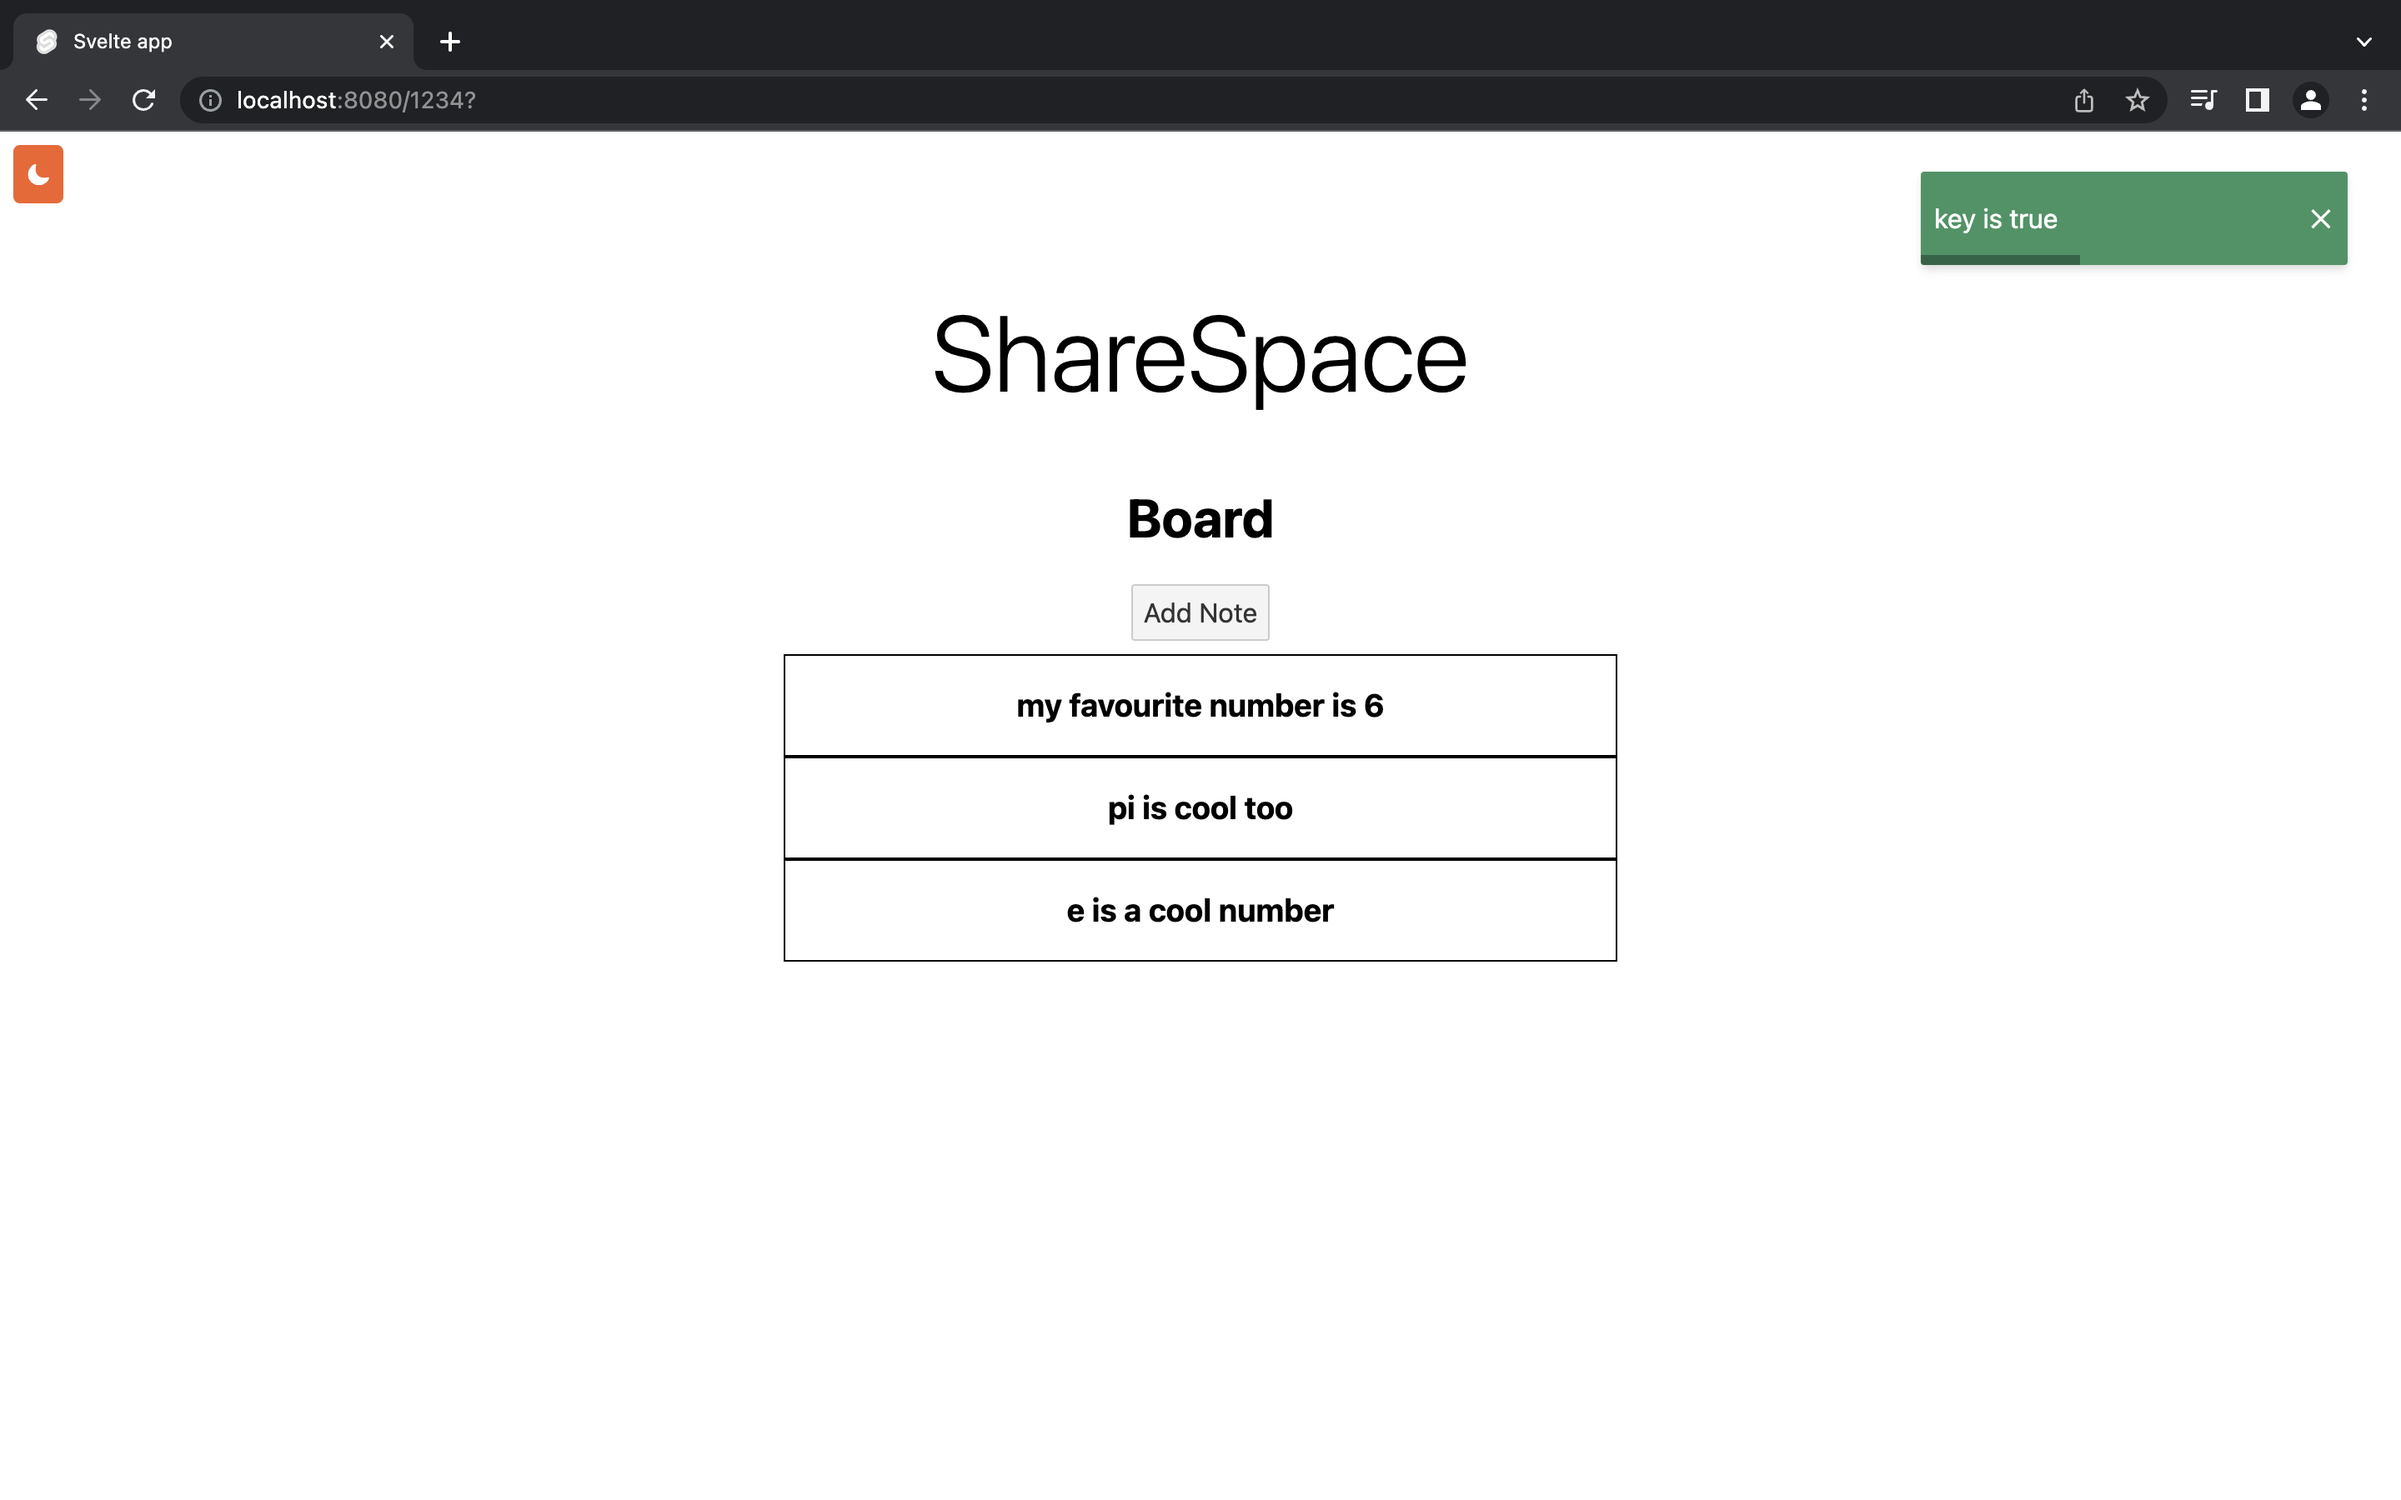
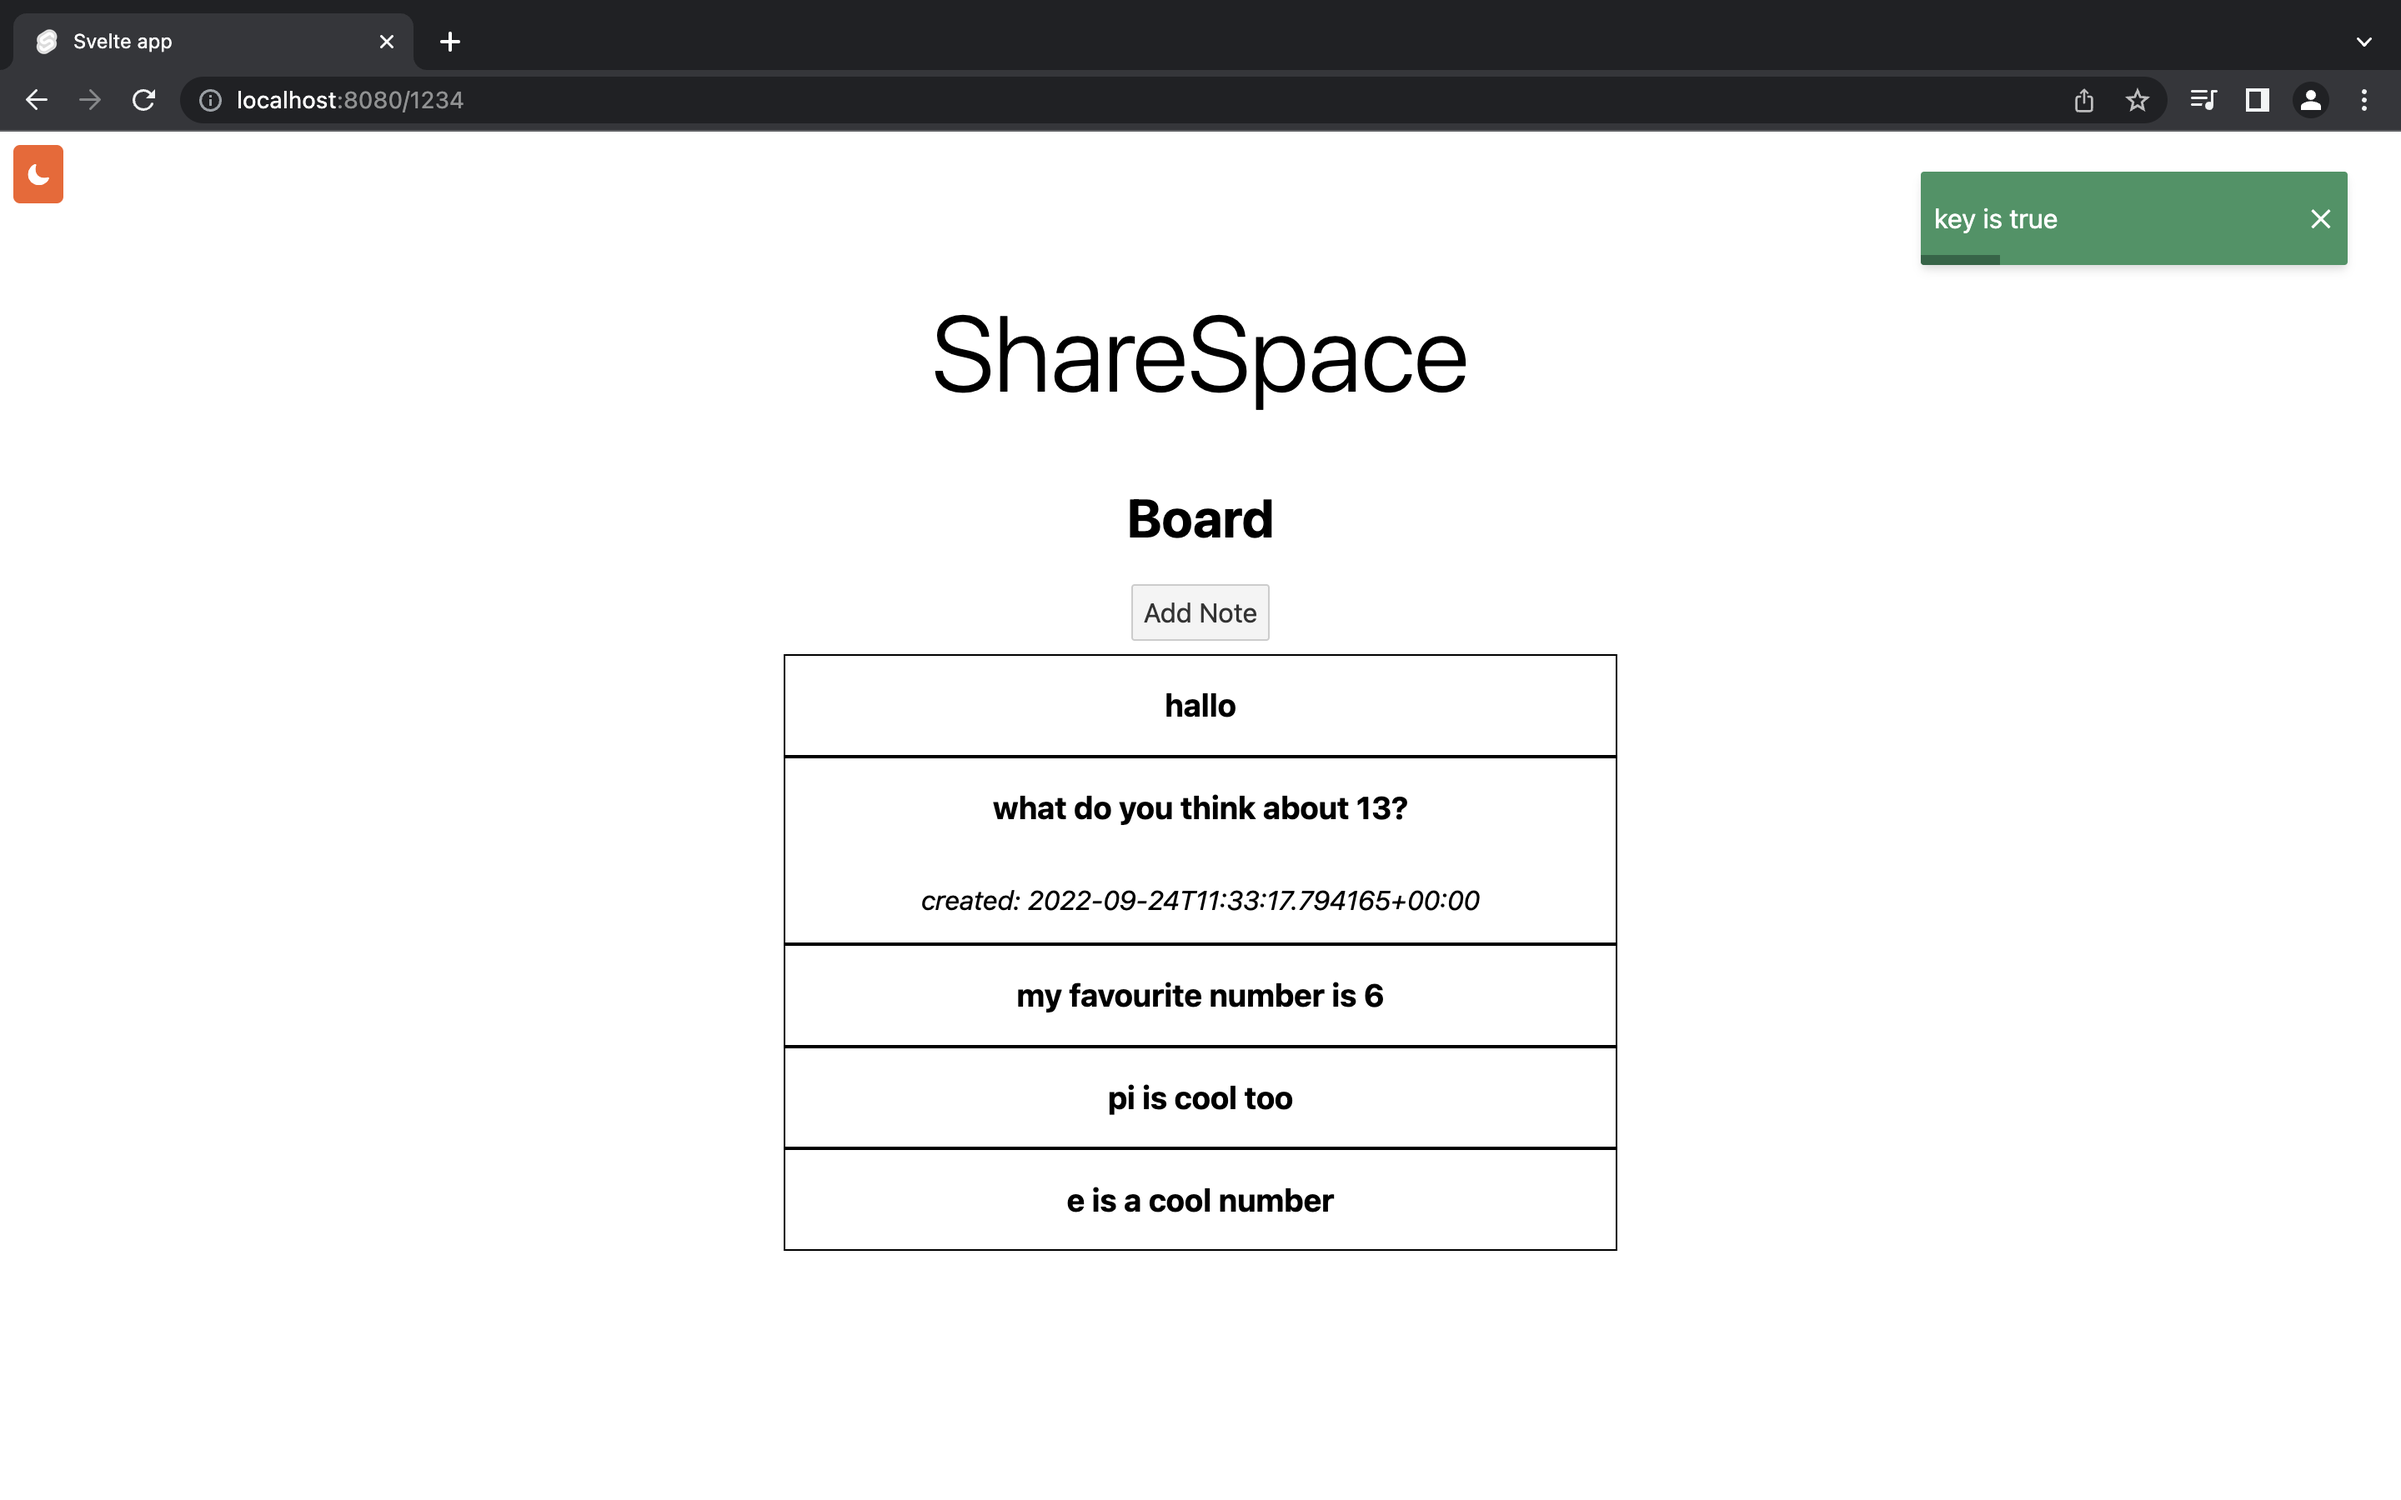
added 'delete note' feature and check key in DB

diff --git a/frontend/app/src/Components/CollapsibleCard.svelte b/frontend/app/src/Components/CollapsibleCard.svelte
@@ -1,0 +1,83 @@
+<script>
+    import { createEventDispatcher } from 'svelte'
+    import collapse from 'svelte-collapse'
+    import {toast} from "@zerodevx/svelte-toast";
+
+    export let open = true
+    export let duration = 0.2
+    export let easing = 'ease'
+    export let note_id;
+    export let cave_key;
+
+    const dispatch = createEventDispatcher()
+
+    function handleToggle () {
+
+        open = !open
+
+        if (open) {
+            dispatch('open')
+        }
+        else {
+            dispatch('close')
+        }
+
+    }
+
+    async function delete_note (key, id) {
+        await fetch('http://127.0.0.1:8000/delete_note/' + key + '/' + id, {
+            method: 'DELETE',
+            headers: {'Content-Type': 'application/json'}
+        })
+        .then(res => {
+            if (res.ok) {
+                console.log("HTTP request successful")
+                toast.push("Note was deleted!", {
+                  theme: {
+                    '--toastBackground': '#be4b4b',
+                    '--toastBarBackground': '#621f1f'
+                  }
+                })
+            }
+            else {
+                console.log("HTTP request unsuccessful")
+            }
+        })
+    }
+
+</script>
+
+<div class='card' class:open aria-expanded={open}>
+
+    <div class='card-header' on:click={handleToggle}>
+        <slot name='header'/>
+    </div>
+
+    <div class='card-body' use:collapse={{open, duration, easing}}>
+        <slot name='body'/>
+        <span on:pointerdown={e => e.stopPropagation()}
+              on:click={() => delete_note(cave_key, note_id)}
+              class=remove
+        >
+            delete
+        </span>
+    </div>
+
+</div>
+
+<style>
+
+    .card-header {
+        cursor: pointer;
+        user-select: none;
+    }
+
+    .remove {
+	cursor: pointer;
+	right: 5px;
+	top: 3px;
+	user-select: none;
+    color: palevioletred;
+}
+
+</style>

diff --git a/frontend/app/src/Routes/+Board.svelte b/frontend/app/src/Routes/+Board.svelte
@@ -16,7 +16,7 @@
     import { writable } from 'svelte/store';
     import Popup from "../Components/Popup.svelte";
     import {navigate} from "svelte-routing";
-    import { CollapsibleCard } from 'svelte-collapsible'
+    import CollapsibleCard from '../Components/CollapsibleCard.svelte'
     import {onMount} from "svelte";
 
 
@@ -70,7 +70,7 @@
 
 
             { #each notes as note } <!-- id, created, data -->
-                <CollapsibleCard open={false}>
+                <CollapsibleCard open={false} note_id={note.id} cave_key={local_key} >
                     <h3 slot='header'>{note.data}</h3>
                     <p slot='body' style="font-style: italic">created: {note.created}</p>
                 </CollapsibleCard>

diff --git a/frontend/app/src/App.svelte b/frontend/app/src/App.svelte
@@ -65,19 +65,6 @@
 	let logged = false
 	export const state = writable(0)
 
-    // receiving {<String>}
-    onMount(async () => {
-        const response = await fetch('http://127.0.0.1:8000/hello/kaushi');
-        name = await response.json();
-    })
-
-	// receiving {json.dumps(<list>)}
-	onMount(async () => {
-        const response = await fetch('http://127.0.0.1:8000/names');
-        const res = await response.json();
-		names = eval(res[0])
-    })
-
 	// receive if key is true or false (String)
 	async function check_key(){
 		fetch('http://127.0.0.1:8000/check/'+key_local)

diff --git a/backend/main.py b/backend/main.py
@@ -1,18 +1,14 @@
-import json
-import os
-
-import yaml
-
 from fastapi import FastAPI, Request
 from supabase import create_client, Client
 from pydantic import BaseModel
 
+import json
+import yaml
+
+
 app = FastAPI()
 config = yaml.safe_load(open('backend/config.yml'))
 
-
-names = ["maya", "alex"]
-keys = ["abcd", "1234"]
 logged = False
 
 url = config['SUPABASE_URL']
@@ -32,11 +28,6 @@ async def home():
         "page": "Home Page"
     }
     return data
-
-
-@app.post("/add/")
-async def save_name(name: str):
-    names.append(name)
 
 
 @app.post("/addnote/")
@@ -59,19 +50,18 @@ async def send_notes(key: str):
 
 @app.get("/check/{key}")
 async def check(key: str):
-    if key in keys:
+
+    data = supabase.table("Caves").select("cave_key", count="estimated").eq('cave_key', key).execute()
+    if data.count:
         logged = True
         return {'True'}
     return {'False'}
 
 
-# sending list with GET
-@app.get("/names/")
-async def show_names():
-    return {json.dumps(names)}
-
-
-# sending string with GET
-@app.get("/hello/{name}")
-async def say_hello(name: str):
-    return {f"Hello {name}"}
+# delete note
+@app.delete("/delete_note/{cave_key}/{note_id}")
+async def delete_note(cave_key: str, note_id: int):
+    supabase.table("Notes").delete().eq("id", note_id).eq("cave_key", cave_key).execute()
+    return {
+        "ok": True
+    }

diff --git a/README.md b/README.md
@@ -12,7 +12,7 @@ Web app to easily collect and share information with others.
 
 ## Motivation
 * Learning FastAPI, Svelte and everything involved in developing and deploying a web app. 
-* To have the ability to make my ideas a reality.
+* Having the ability to make my ideas a reality.
 
 ## Features
 * Access space with (predefined) keys or directly through url
@@ -21,11 +21,12 @@ Web app to easily collect and share information with others.
 * Notification toast for login, failed login and note creation
 * Basic UI
 * Dark mode
+* Delete note
 
 ## Next steps
-* Feature: Delete note
 * Feature: Create cave
 * Feature: Feedback button
+* (Dockerize?)
 * Deployment and CI/CD pipeline
 * E2E tests
 
@@ -35,4 +36,4 @@ Web app to easily collect and share information with others.
 ![](/docs/img/ss3.png)
 ![](/docs/img/ss4.png)
 
-*updated: Sept 24, 2022*
+*updated: Oct 19, 2022*
